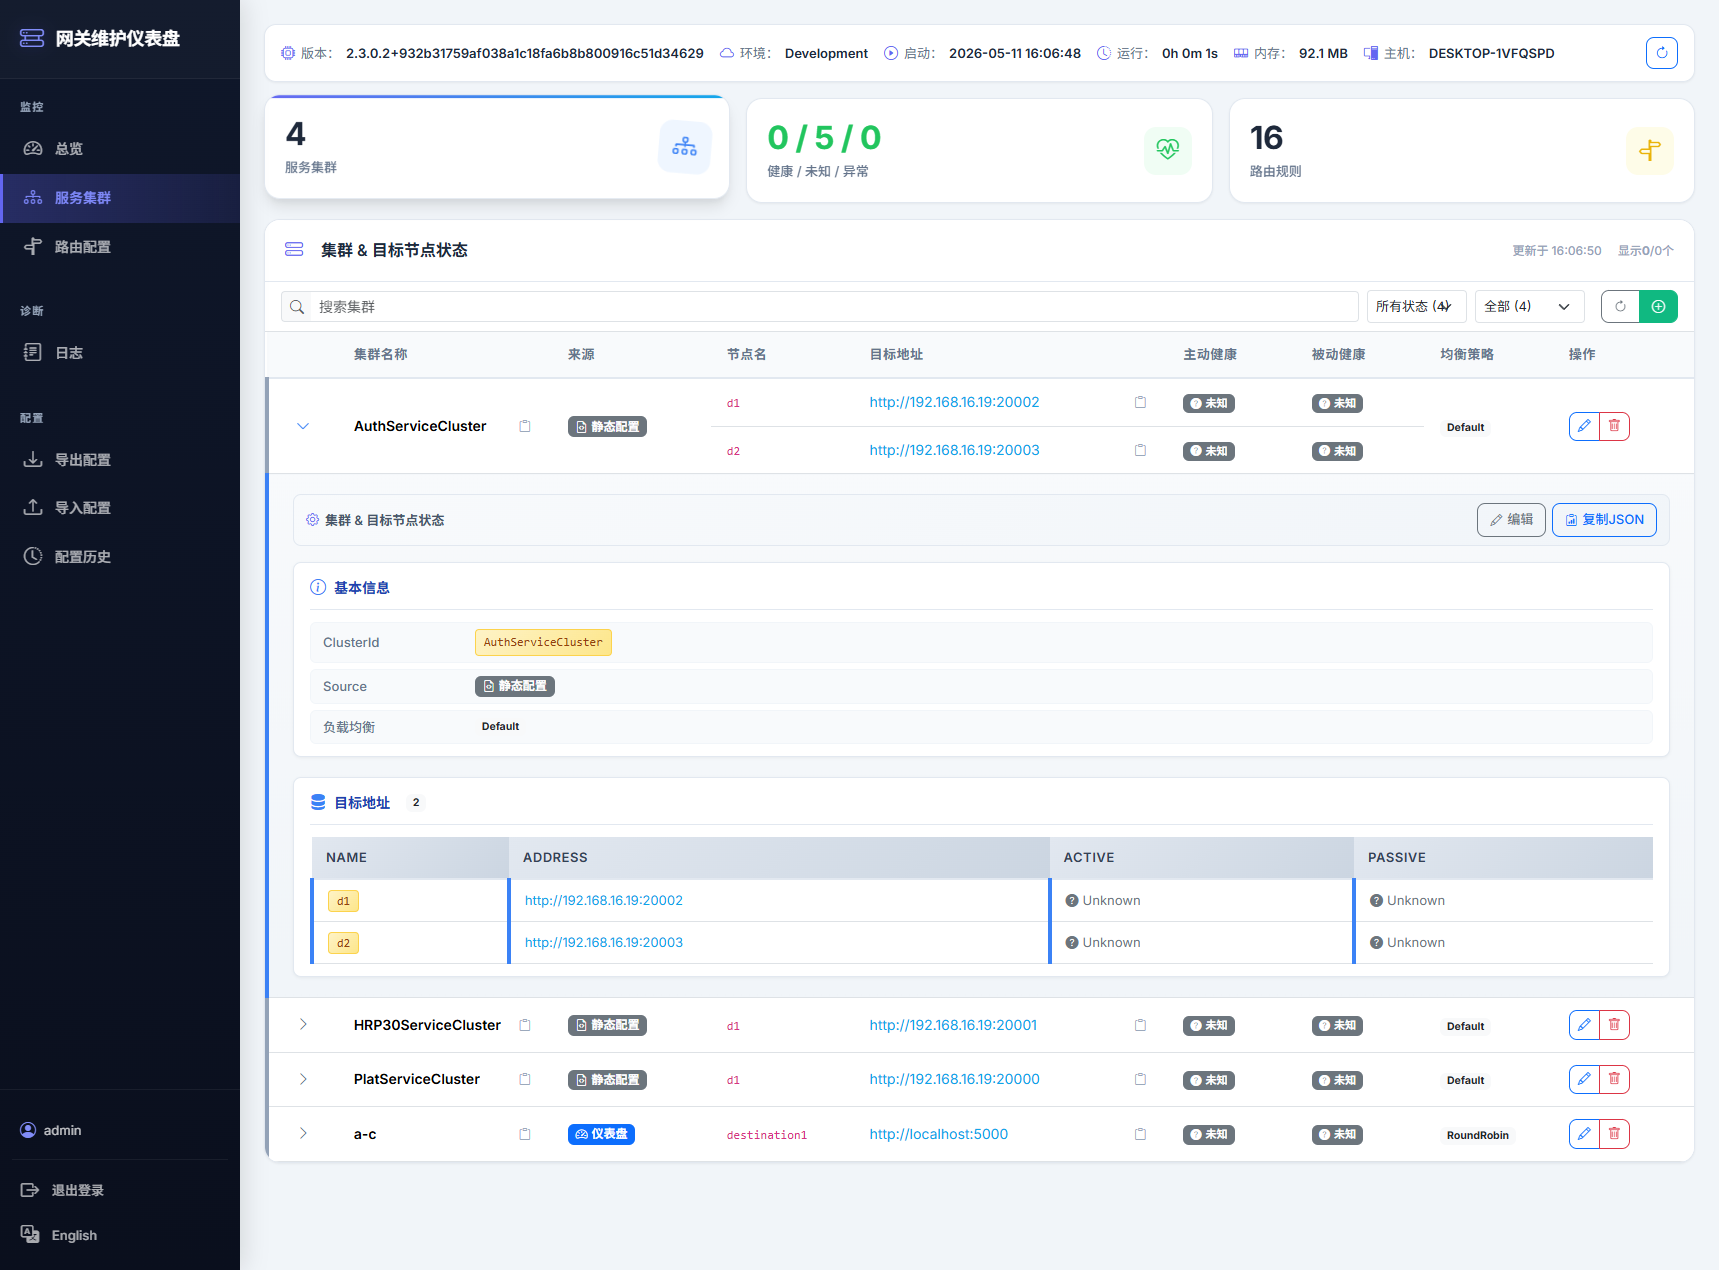
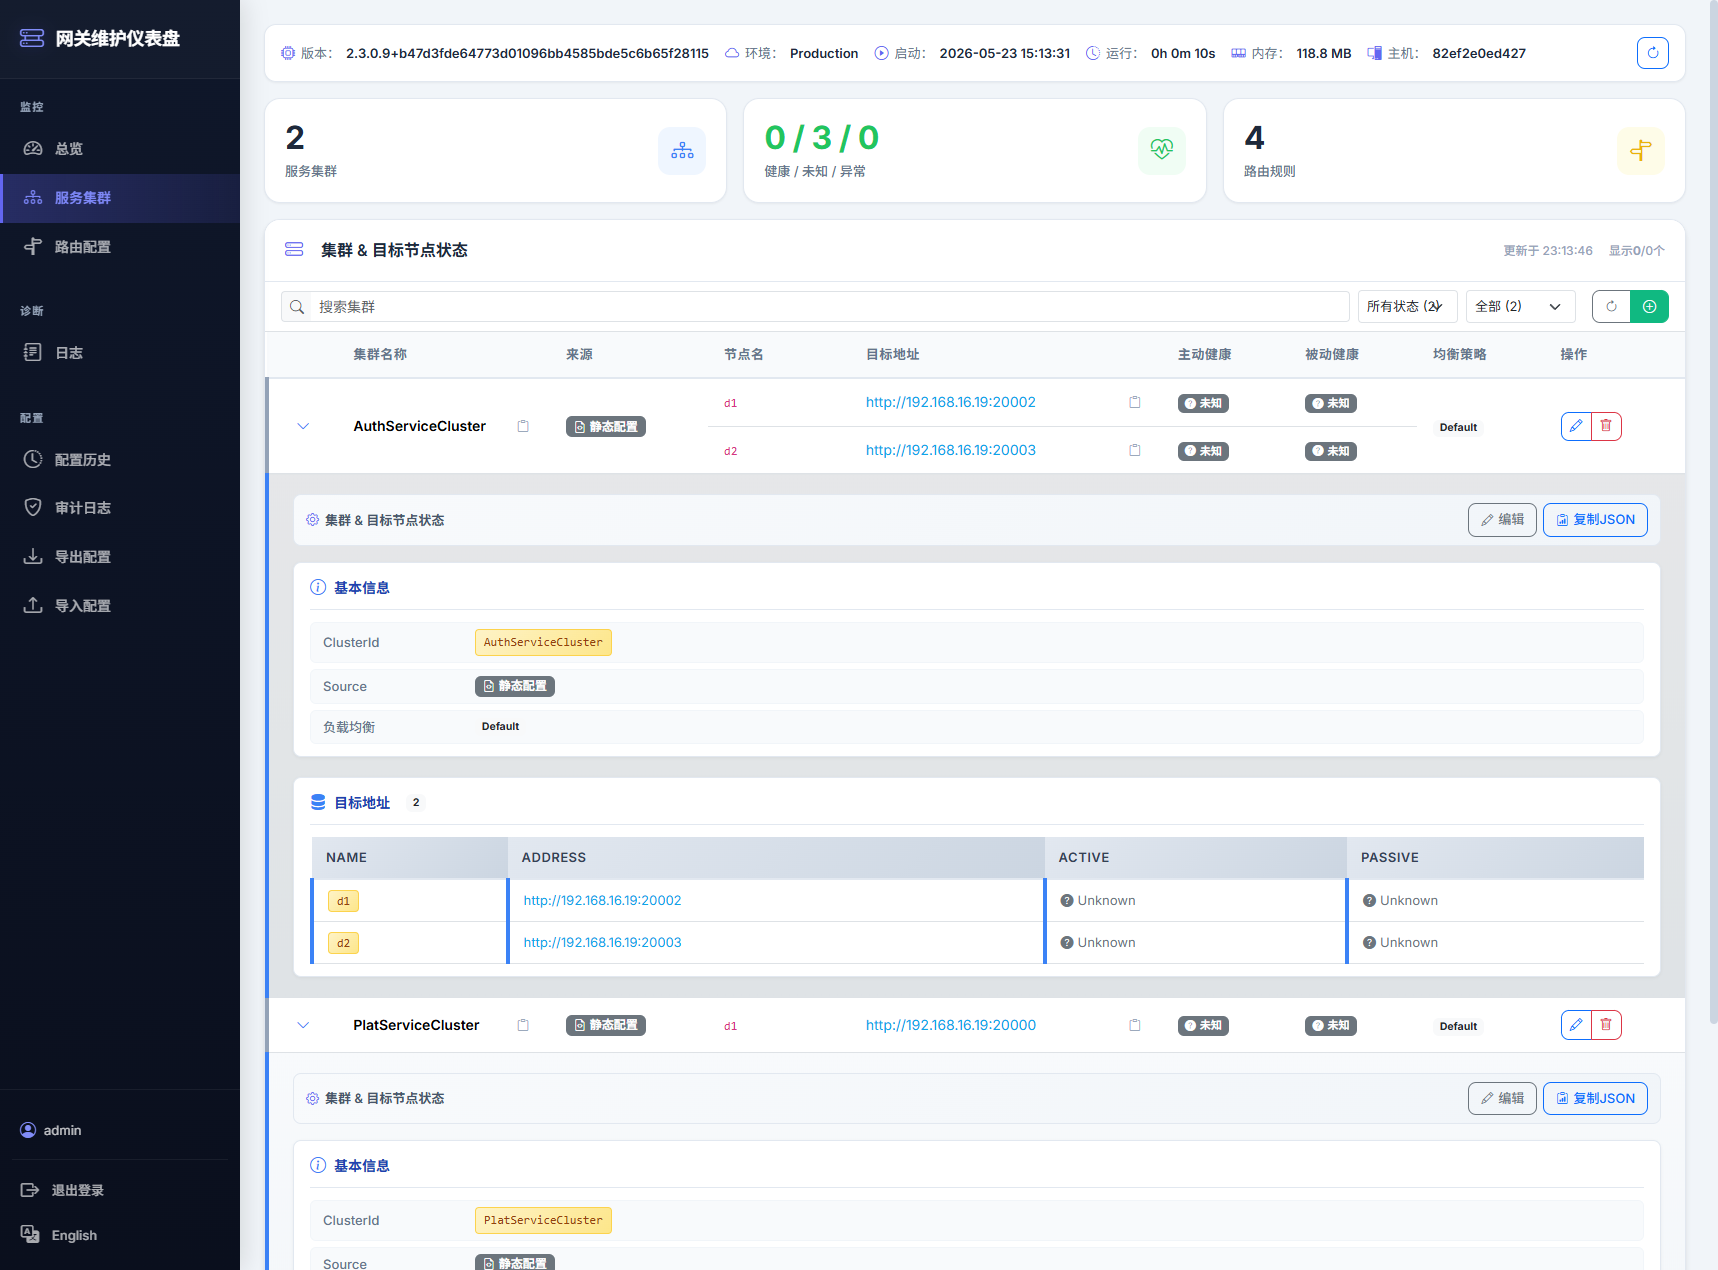
更新博客

diff --git a/docs/blog-introduction.zh-CN.md b/docs/blog-introduction.zh-CN.md
@@ -15,7 +15,7 @@
 
 ## 它是什么
 
-[Aneiang.Yarp](https://github.com/aneiang/Aneiang.Yarp) 是基于微软官方 [YARP (Yet Another Reverse Proxy)](https://microsoft.github.io/reverse-proxy/) 2.3.0 构建的 API 网关增强方案，MIT 协议开源，支持 .NET 8.0 和 .NET 9.0。
+[Aneiang.Yarp](https://gitee.com/aneiangsoft/aneiang-yarp) 是基于微软官方 [YARP (Yet Another Reverse Proxy)](https://microsoft.github.io/reverse-proxy/) 2.3.0 构建的 API 网关增强方案，MIT 协议开源，支持 .NET 8.0 和 .NET 9.0。
 
 它通过三个 NuGet 包，提供 **Dashboard 管理面板 + 动态路由 + 自动注册 + IP 隔离** 四大能力：
 
@@ -210,7 +210,7 @@ YARP 本身很优秀，但缺少管理界面和动态配置能力一直是实际
 - 功能实用 — 配置回滚、日志脱敏、自动注册，都是刚需
 - MIT 协议 — 放心用
 
-**源码地址**：[https://github.com/aneiang/Aneiang.Yarp](https://github.com/aneiang/Aneiang.Yarp)
+**源码地址**：[GitHub](https://github.com/AneiangSoft/Aneiang.Yarp) | [Gitee](https://gitee.com/aneiangsoft/aneiang-yarp)
 
 如果你正在用 YARP，不妨花 5 分钟试一下。
 
@@ -220,4 +220,4 @@ YARP 本身很优秀，但缺少管理界面和动态配置能力一直是实际
 >
 > | 上一篇 — | [下一篇：微服务接入网关只需一行代码](./blog-client.zh-CN.md) | [系列目录](./series-index.zh-CN.md) |
 >
-> 觉得有用？去 [GitHub 点个 Star](https://github.com/aneiang/Aneiang.Yarp) 支持一下。
+> 觉得有用？去 [GitHub](https://github.com/AneiangSoft/Aneiang.Yarp) 或 [Gitee](https://gitee.com/aneiangsoft/aneiang-yarp) 点个 Star 支持一下。

diff --git a/docs/blog-dashboard.zh-CN.md b/docs/blog-dashboard.zh-CN.md
@@ -237,7 +237,7 @@ builder.Services.AddAneiangYarpDashboard(options =>
 | 四种认证 | None / ApiKey / JWT / 自定义 | 从开发到生产全覆盖 |
 | 多语言 | 中英文运行时切换 | 国际化友好 |
 
-**源码地址**：[https://github.com/aneiang/Aneiang.Yarp](https://github.com/aneiang/Aneiang.Yarp)
+**源码地址**：[GitHub](https://github.com/AneiangSoft/Aneiang.Yarp) | [Gitee](https://gitee.com/aneiangsoft/aneiang-yarp)
 
 **在线预览**：http://113.45.65.71:8930/apigateway（admin / demo123）
 
@@ -253,4 +253,4 @@ dotnet add package Aneiang.Yarp.Dashboard
 >
 > | [上一篇：网关核心模块](./blog-core.zh-CN.md) | [下一篇：IP 隔离负载均衡](./blog-ip-isolation.zh-CN.md) | [系列目录](./series-index.zh-CN.md) |
 >
-> 觉得有用？去 [GitHub 点个 Star](https://github.com/aneiang/Aneiang.Yarp) 支持一下。
+> 觉得有用？去 [GitHub](https://github.com/AneiangSoft/Aneiang.Yarp) 或 [Gitee](https://gitee.com/aneiangsoft/aneiang-yarp) 点个 Star 支持一下。

diff --git a/docs/blog-core.zh-CN.md b/docs/blog-core.zh-CN.md
@@ -315,7 +315,7 @@ YARP 的 `InMemoryConfigProvider.Update()` 不是线程安全的。`ReaderWriter
 | API 鉴权 | 三级凭证 + 智能推断 | 配置最少，安全最大 |
 | 注册安全 | MVC Convention 移除路由 | 404 而非 403 |
 
-**源码地址**：[https://github.com/aneiang/Aneiang.Yarp](https://github.com/aneiang/Aneiang.Yarp)
+**源码地址**：[GitHub](https://github.com/AneiangSoft/Aneiang.Yarp) | [Gitee](https://gitee.com/aneiangsoft/aneiang-yarp)
 
 ```bash
 dotnet add package Aneiang.Yarp
@@ -328,4 +328,4 @@ dotnet add package Aneiang.Yarp
 >
 > | [上一篇：客户端自动注册](./blog-client.zh-CN.md) | [下一篇：可视化 Dashboard](./blog-dashboard.zh-CN.md) | [系列目录](./series-index.zh-CN.md) |
 >
-> 觉得有用？去 [GitHub 点个 Star](https://github.com/aneiang/Aneiang.Yarp) 支持一下。
+> 觉得有用？去 [GitHub](https://github.com/AneiangSoft/Aneiang.Yarp) 或 [Gitee](https://gitee.com/aneiangsoft/aneiang-yarp) 点个 Star 支持一下。

diff --git a/docs/blog-client.zh-CN.md b/docs/blog-client.zh-CN.md
@@ -309,7 +309,7 @@ app.Run();
 | 优雅关闭 | IHostedService | K8s 下线不丢请求 |
 | 认证智能推断 | 读取 Dashboard JWT 密码 | 客户端零配置 |
 
-**源码地址**：[https://github.com/aneiang/Aneiang.Yarp](https://github.com/aneiang/Aneiang.Yarp)
+**源码地址**：[GitHub](https://github.com/AneiangSoft/Aneiang.Yarp) | [Gitee](https://gitee.com/aneiangsoft/aneiang-yarp)
 
 ```bash
 dotnet add package Aneiang.Yarp.Client
@@ -322,4 +322,4 @@ dotnet add package Aneiang.Yarp.Client
 >
 > | [上一篇：项目总览](./blog-introduction.zh-CN.md) | [下一篇：网关核心模块架构解析](./blog-core.zh-CN.md) | [系列目录](./series-index.zh-CN.md) |
 >
-> 觉得有用？去 [GitHub 点个 Star](https://github.com/aneiang/Aneiang.Yarp) 支持一下。
+> 觉得有用？去 [GitHub](https://github.com/AneiangSoft/Aneiang.Yarp) 或 [Gitee](https://gitee.com/aneiangsoft/aneiang-yarp) 点个 Star 支持一下。

diff --git a/docs/blog-ip-isolation.zh-CN.md b/docs/blog-ip-isolation.zh-CN.md
@@ -311,7 +311,7 @@ curl http://网关:5000/api/local-service/ping
 | 自动兜底 | 无匹配返回第一个可用实例 | 未注册 IP 也能用 |
 | 代理兼容 | X-Forwarded-For 优先 | Nginx/Caddy 后正常工作 |
 
-**源码地址**：[https://github.com/aneiang/Aneiang.Yarp](https://github.com/aneiang/Aneiang.Yarp)
+**源码地址**：[GitHub](https://github.com/AneiangSoft/Aneiang.Yarp) | [Gitee](https://gitee.com/aneiangsoft/aneiang-yarp)
 
 ```bash
 # 客户端
@@ -327,4 +327,4 @@ dotnet add package Aneiang.Yarp.Client
 >
 > | [上一篇：可视化 Dashboard](./blog-dashboard.zh-CN.md) | [系列目录](./series-index.zh-CN.md) |
 >
-> 觉得有用？去 [GitHub 点个 Star](https://github.com/aneiang/Aneiang.Yarp) 支持一下。
+> 觉得有用？去 [GitHub](https://github.com/AneiangSoft/Aneiang.Yarp) 或 [Gitee](https://gitee.com/aneiangsoft/aneiang-yarp) 点个 Star 支持一下。

diff --git a/docs/series-index.zh-CN.md b/docs/series-index.zh-CN.md
@@ -91,11 +91,12 @@
 
 ## 代码仓库
 
-- **GitHub**：[https://github.com/aneiang/Aneiang.Yarp](https://github.com/aneiang/Aneiang.Yarp)
+- **GitHub**：[https://github.com/AneiangSoft/Aneiang.Yarp](https://github.com/AneiangSoft/Aneiang.Yarp)
+- **Gitee**：[https://gitee.com/aneiangsoft/aneiang-yarp](https://gitee.com/aneiangsoft/aneiang-yarp)
 - **开源协议**：MIT
 
 ---
 
 > 本文是 **Aneiang.Yarp 源码解析系列** 的索引页。系列文章同步发布于微信公众号、CSDN、博客园。
 >
-> 觉得有用？去 [GitHub 点个 Star](https://github.com/aneiang/Aneiang.Yarp) 支持一下。
+> 觉得有用？去 [GitHub](https://github.com/AneiangSoft/Aneiang.Yarp) 或 [Gitee](https://gitee.com/aneiangsoft/aneiang-yarp) 点个 Star 支持一下。
